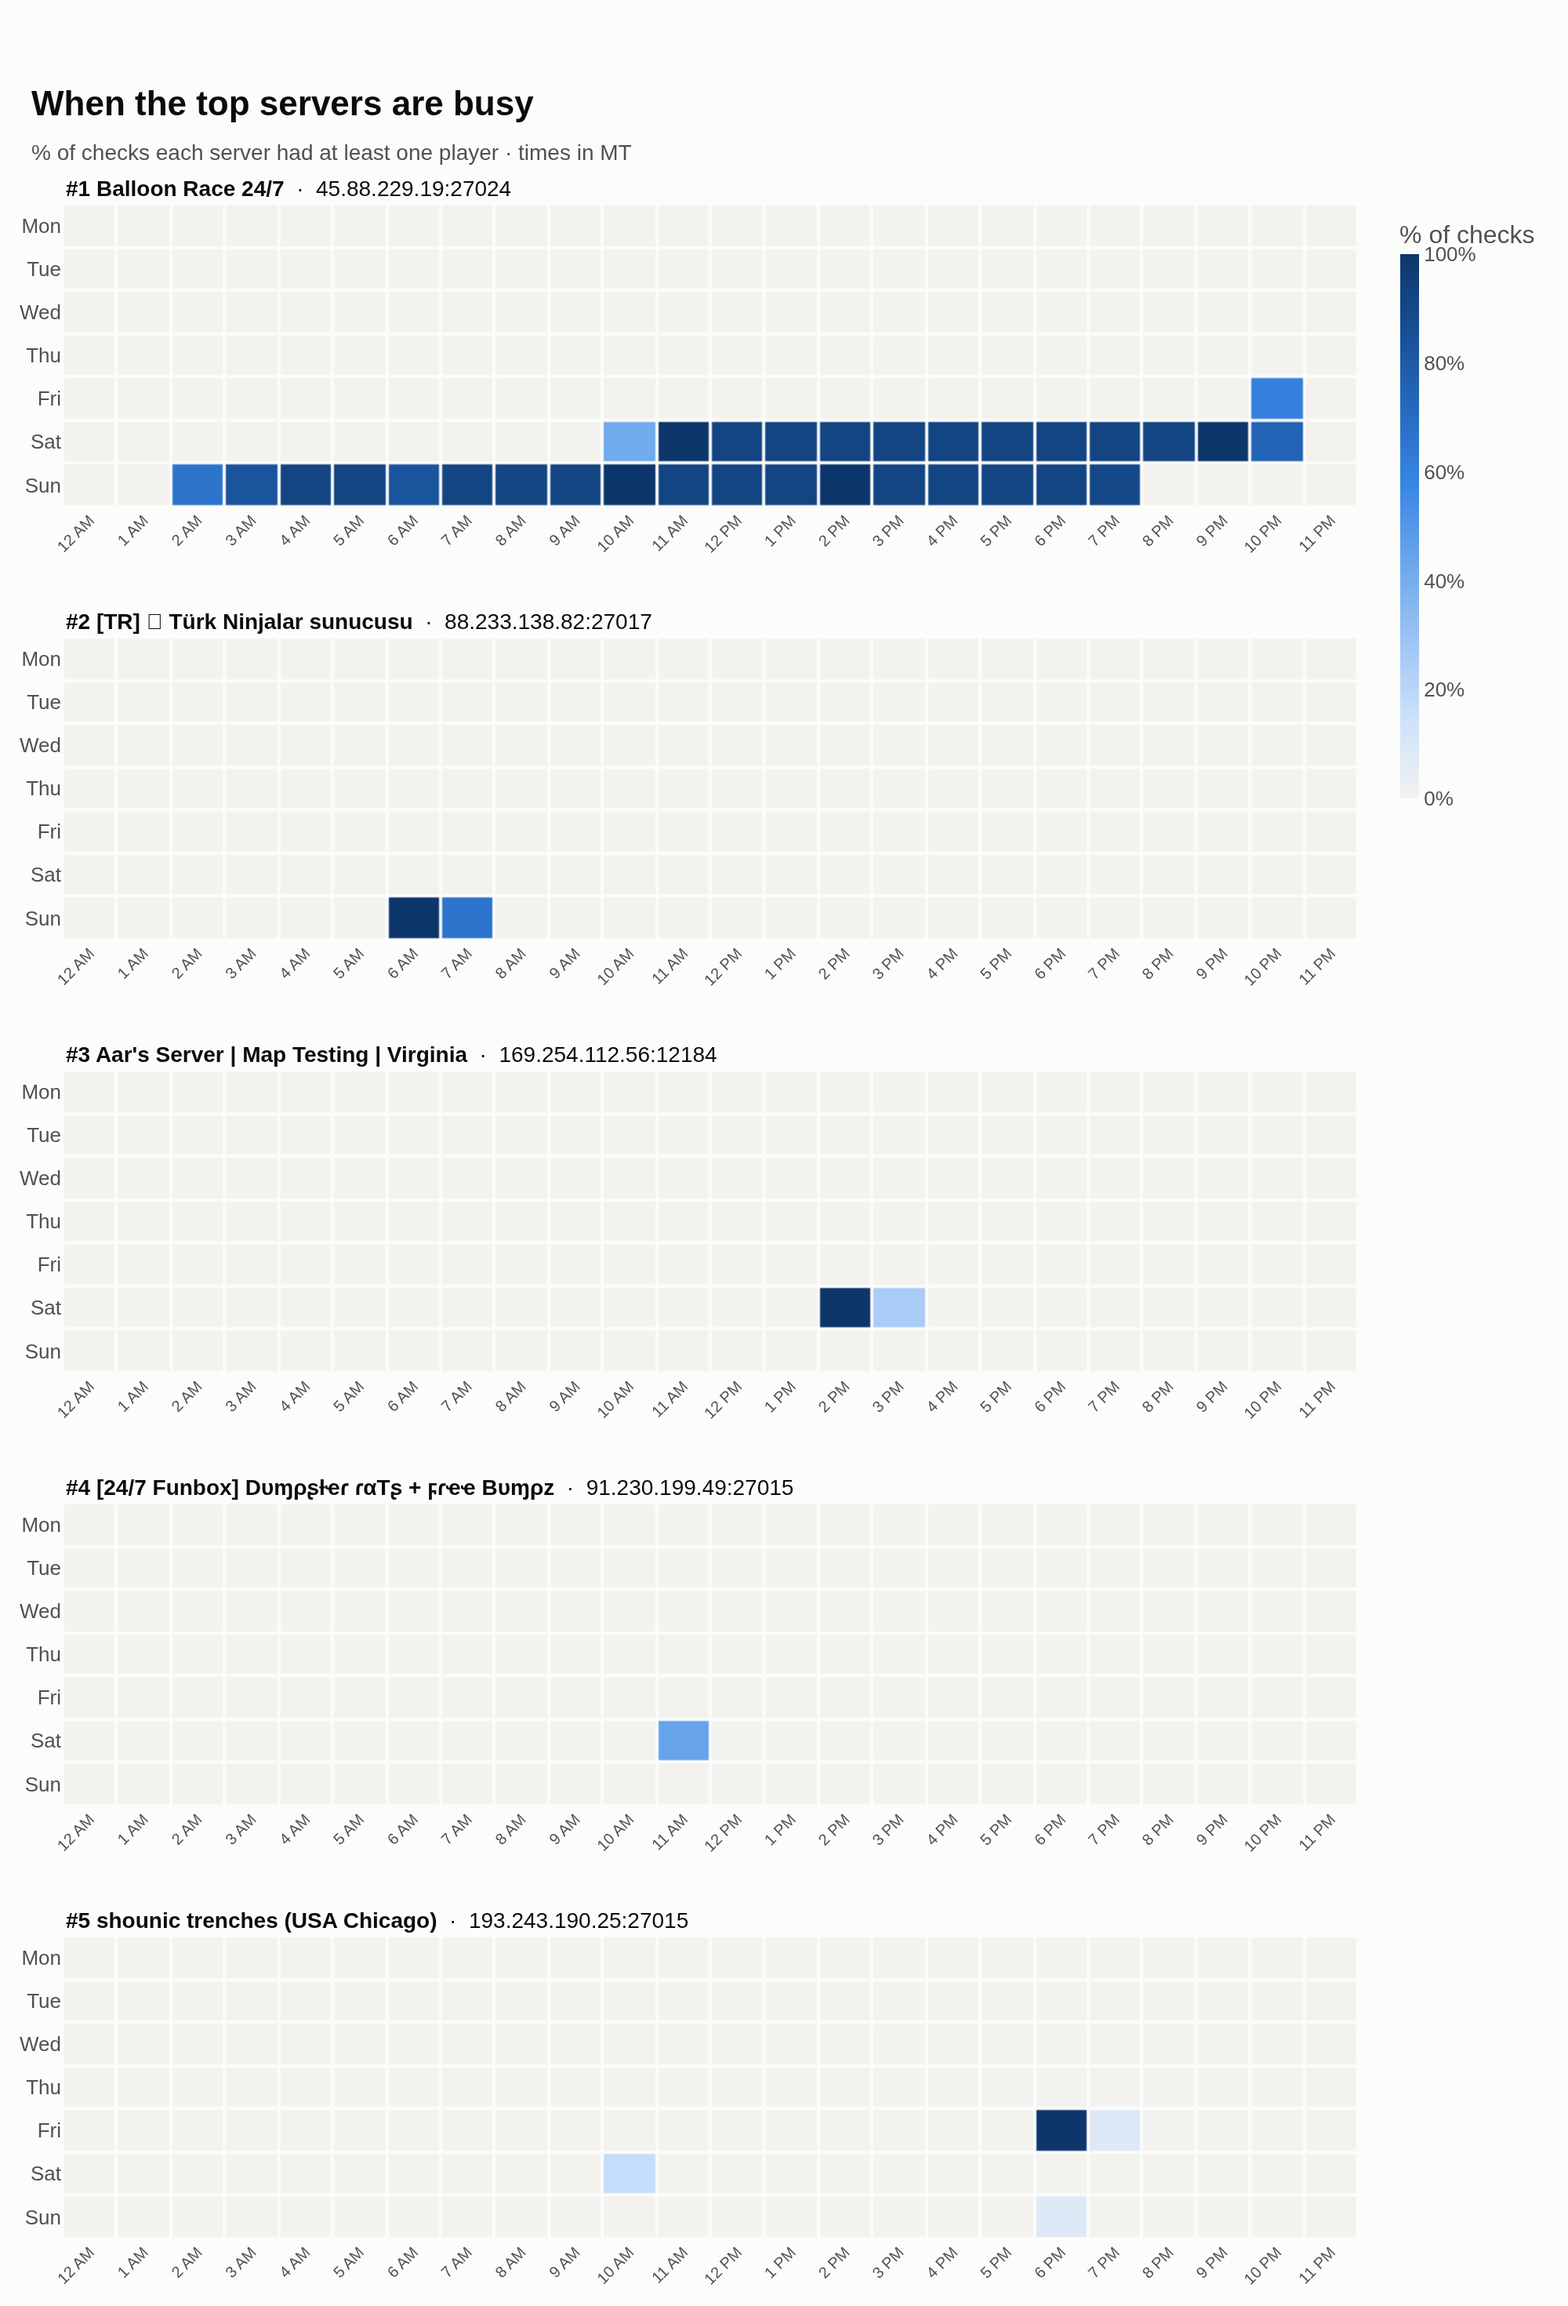
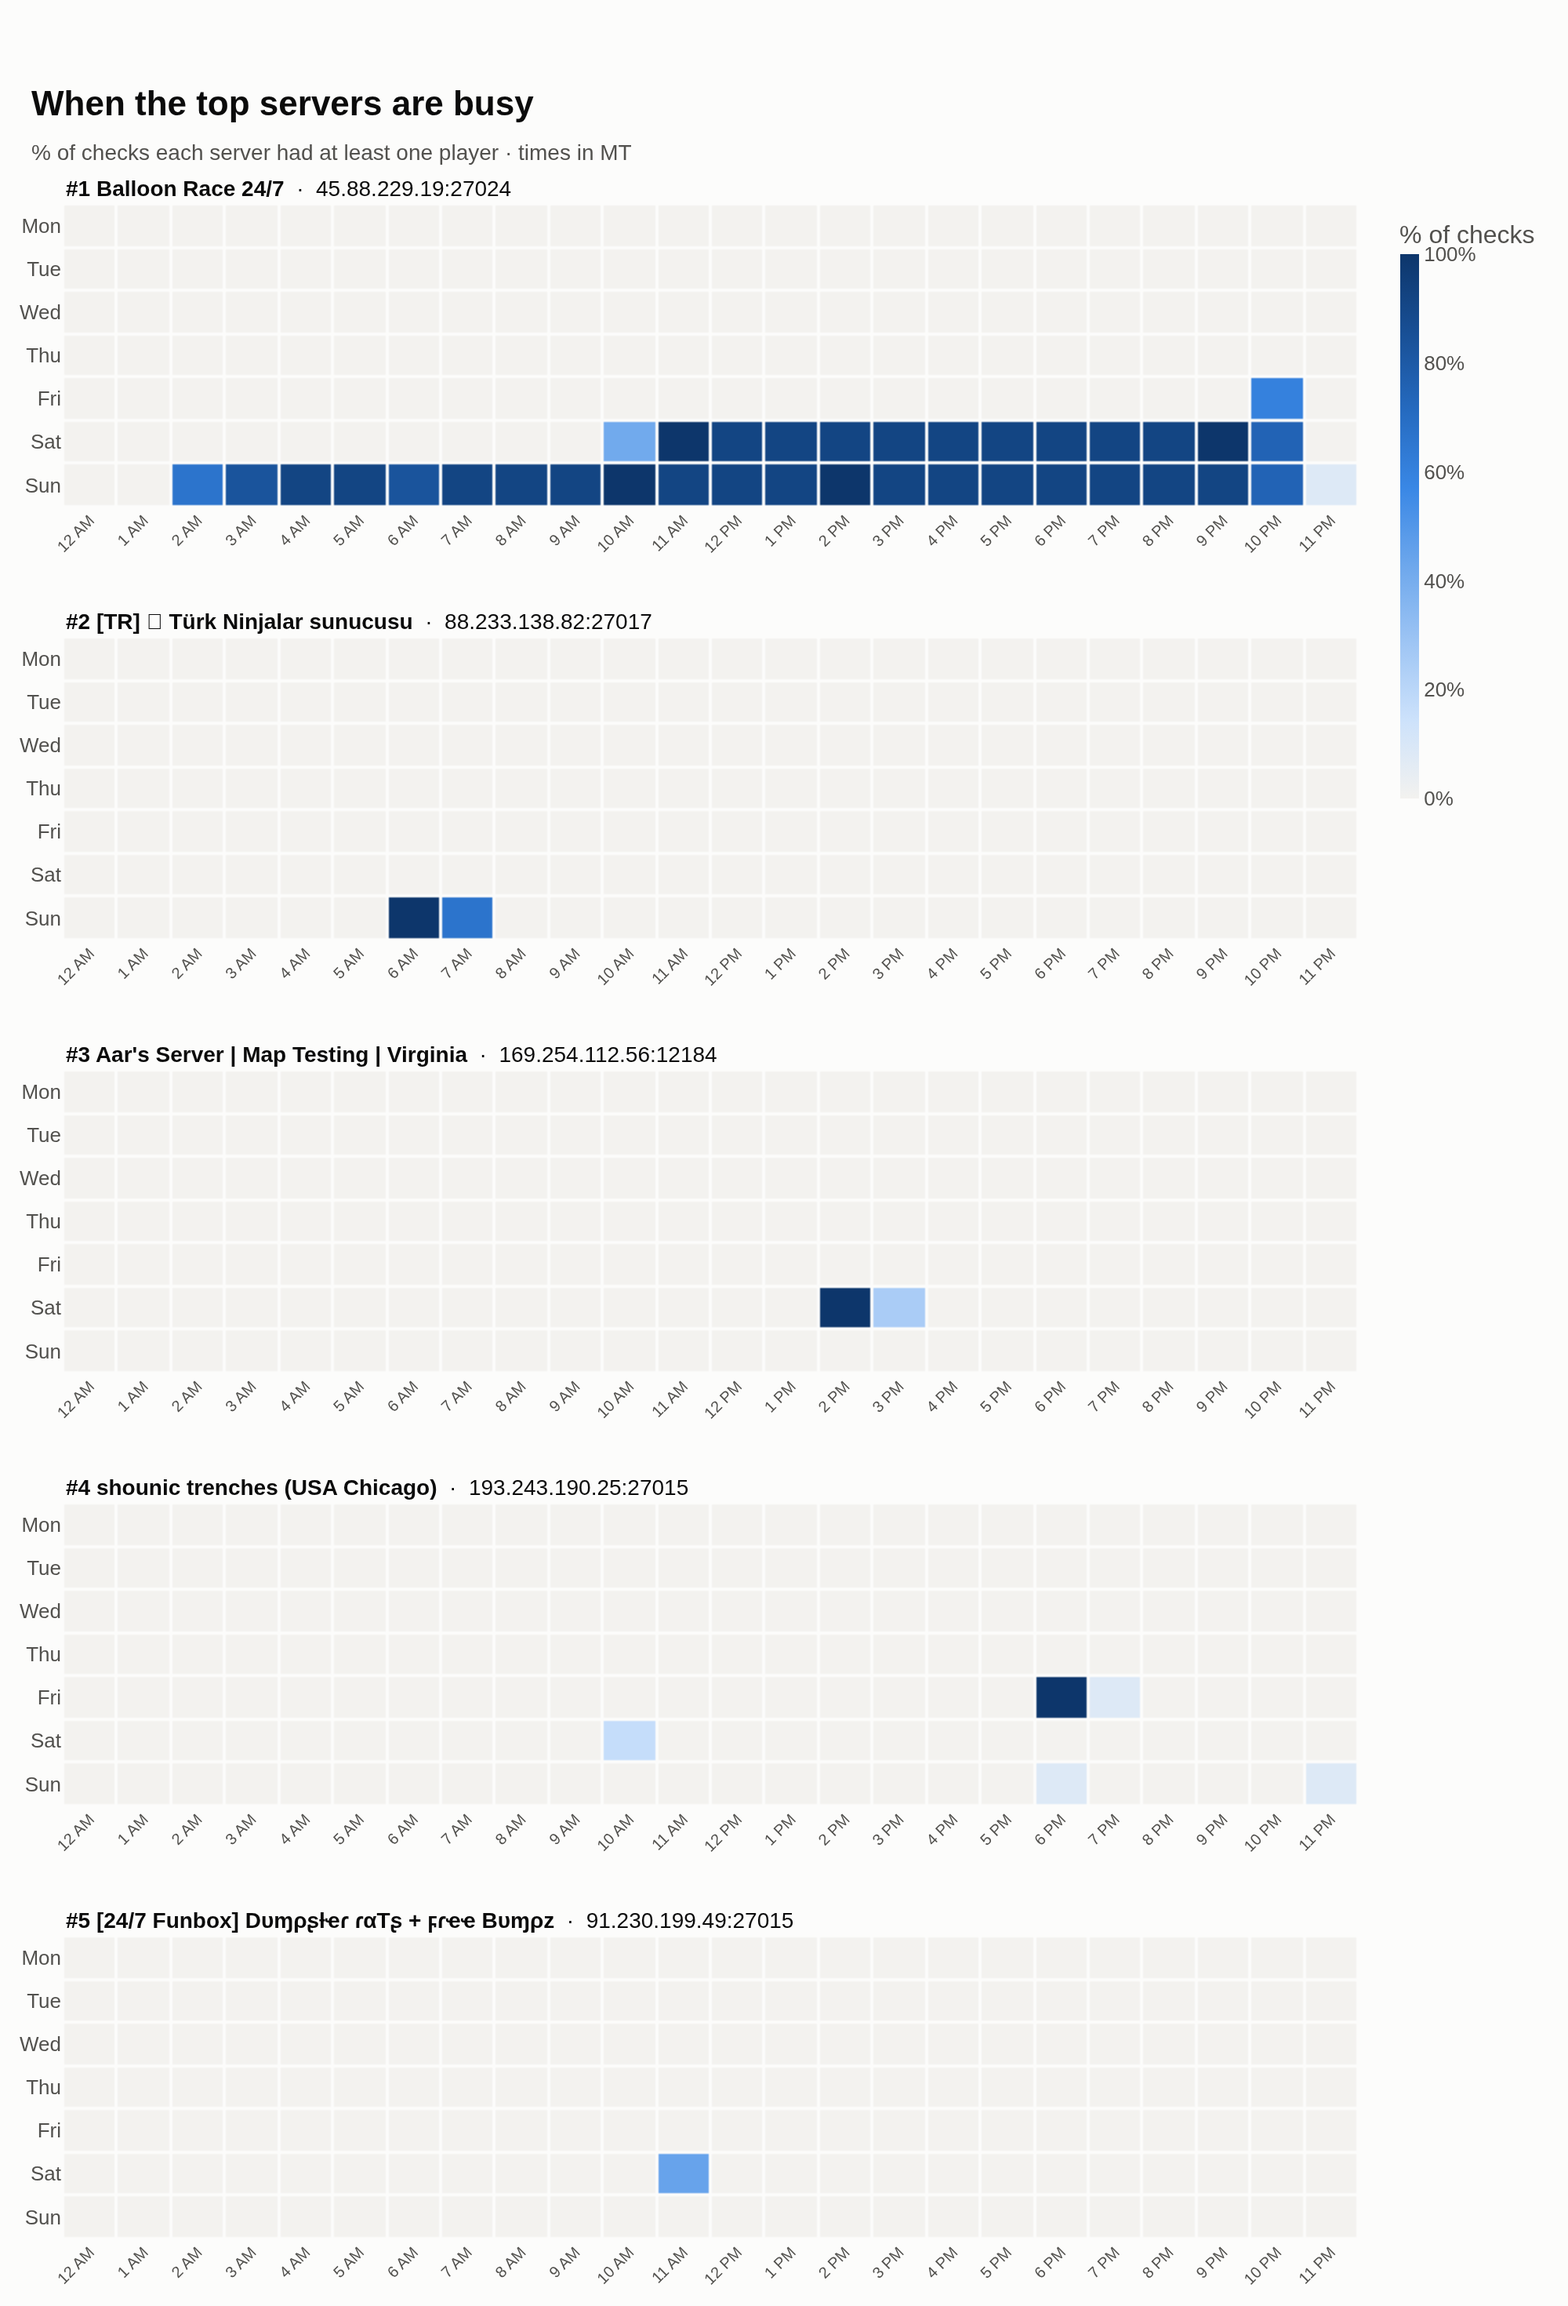
update charts and log

diff --git a/README.md b/README.md
@@ -32,11 +32,11 @@ Ranked by how often they have people on. Favorite these so they're one click awa
 <!-- TOP_SERVERS_START -->
 | # | Server | Connect (paste in TF2 console) | Best time | Best day | Has players | Avg players when on | Peak |
 |---|---|---|---|---|---|---|---|
-| 1 | Balloon Race 24/7 | `connect 45.88.229.19:27024` | Sat · 11 AM – 1 PM MT (96%) | Sunday | 61% of checks | 1.2 | 6 |
-| 2 | [TR]  Türk Ninjalar sunucusu | `connect 88.233.138.82:27017` | Sun · 5 AM – 7 AM MT (100%) | Sunday | 6% of checks | 14.7 | 17 |
+| 1 | Balloon Race 24/7 | `connect 45.88.229.19:27024` | Sat · 11 AM – 1 PM MT (96%) | Sunday | 62% of checks | 1.2 | 6 |
+| 2 | [TR]  Türk Ninjalar sunucusu | `connect 88.233.138.82:27017` | Sun · 5 AM – 7 AM MT (100%) | Sunday | 4% of checks | 14.7 | 17 |
 | 3 | Aar's Server \| Map Testing \| Virginia | `connect 169.254.112.56:12184` | Sat · 1 PM – 3 PM MT (100%) | Saturday | 2% of checks | 24.7 | 26 |
-| 4 | [24/7 Funbox] Dυɱρʂƚҽɾ ɾαTʂ + ϝɾҽҽ Bυɱρz | `connect 91.230.199.49:27015` | Sat · 10 AM – 12 PM MT (44%) | Saturday | 1% of checks | 1.5 | 2 |
-| 5 | shounic trenches (USA Chicago) | `connect 193.243.190.25:27015` | Fri · 5 PM – 7 PM MT (100%) | Friday | 1% of checks | 23.3 | 45 |
+| 4 | shounic trenches (USA Chicago) | `connect 193.243.190.25:27015` | Fri · 5 PM – 7 PM MT (100%) | Friday | 1% of checks | 26.9 | 48 |
+| 5 | [24/7 Funbox] Dυɱρʂƚҽɾ ɾαTʂ + ϝɾҽҽ Bυɱρz | `connect 91.230.199.49:27015` | Sat · 10 AM – 12 PM MT (44%) | Saturday | 1% of checks | 1.5 | 2 |
 
 To favorite one: Steam → View → Game Servers → Favorites → **+** and paste the address.
 <!-- TOP_SERVERS_END -->
